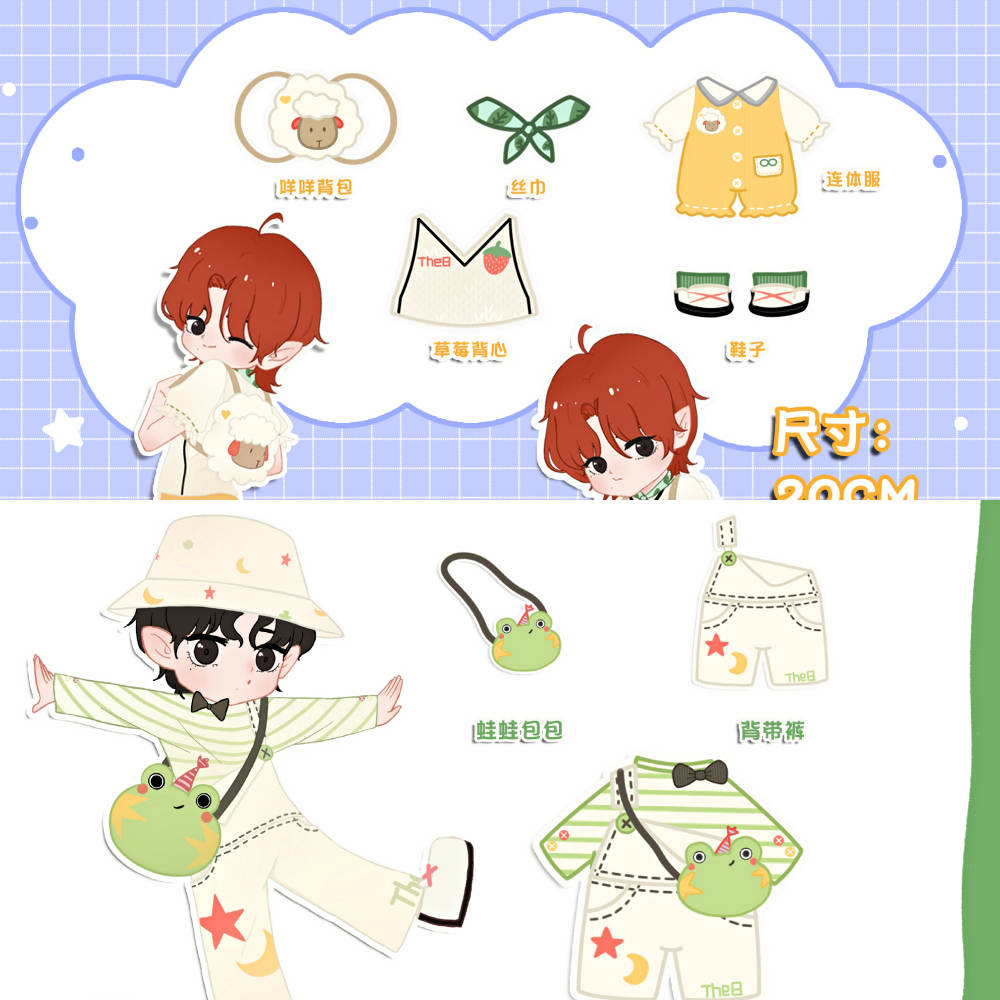
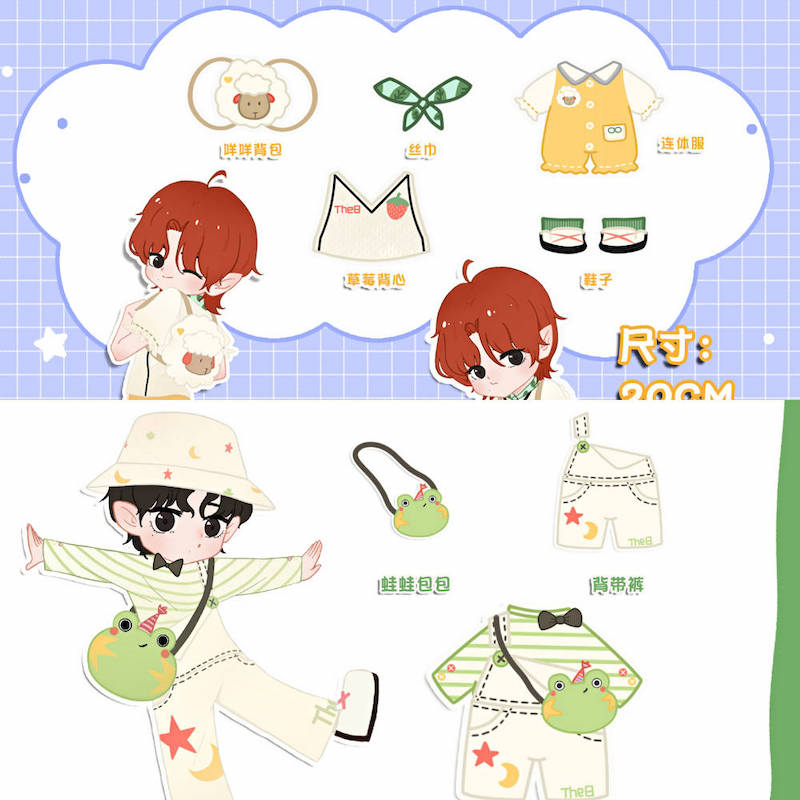
1

diff --git a/good7.html b/good7.html
@@ -3,7 +3,7 @@
 <head>
     <meta http-equiv="Content-Type" content="text/html; charset=utf-8" />
 	<meta name="viewport" content="width=device-width,initial-scale=1.0, minimum-scale=1.0, maximum-scale=1.0, user-scalable=no"/>
-	<title>“麻瓜报社”数码特典</title>
+	<title>“THE8 PLANET”丝巾</title>
 	<link rel="stylesheet" type="text/css" href="./css/main.css">
     <link rel="icon" type="image/x-ico" href="./img/logo.ico" />
 <style>
@@ -121,10 +121,10 @@
 <body>
     <div class="infos" style="font-family: jiangxizhuokai; text-align: center; ">
         <div style="background-color: #eee; height: 40px; line-height: 40px;"><a href="./index.html">点我返回首页🏠</a></div>
-        <div style="background-color: #FFF59D; height: 40px; line-height: 40px;">特典名称： “麻瓜报社”数码特典</div>
+        <div style="background-color: #FFF59D; height: 40px; line-height: 40px;">特典名称： “THE8 PLANET”丝巾</div>
         <div style="background-color: #C5E1A5;height: 40px; line-height: 40px;">@徐明浩吧_The8Bar</div>
-        <div style="background-color: #b5dbfa;height: 40px; line-height: 40px;">原文地址： <a href="https://weibo.com/6315500311/Kh8GyvHVh">点我去微博</a></div>
-        <div style="background-color: #ffd2e2;height: 40px; line-height: 40px;">owhat地址： <a href="https://www.owhat.cn/prod/shop/shopdetail?id=157230&encode=ab90aedc59745a2b&utm_source=owhat&utm_medium=weido">点我去owhat</a></div>
+        <div style="background-color: #b5dbfa;height: 40px; line-height: 40px;">原文地址： <a href="https://weibo.com/6315500311/Kibr2wAwK">点我去微博</a></div>
+        <div style="background-color: #ffd2e2;height: 40px; line-height: 40px;">owhat地址： <a href="https://www.owhat.cn/prod/shop/shopdetail?id=157984&encode=8e8a0b05f2487f7b&utm_source=owhat&utm_medium=weido">点我去owhat</a></div>
     </div>
     <img src="./img/sm_wz.png" alt="" style="width: 100%;">
 
@@ -135,86 +135,67 @@
       <div>收起</div>
     </div>
     <div class="detail">
-<p style="font-weight: bold;">【2021 SEVENTEEN回归徐明浩吧_The8Bar 1V1“麻瓜报社”数码特典】</p>
+<p style="font-weight: bold;">【2021徐明浩生日企划/SEVENTEEN回归徐明浩吧_The8Bar 1V1“THE8 PLANET”丝巾SET】</p>
 <p>⭕请认真阅读公告后参与活动⭕<br>
     ⭕若有任何疑问，请先私信浩吧⭕</p>
 <p>
-    🔮回归1V1“麻瓜报社”数码特典🔗：<a href="https://www.owhat.cn/prod/shop/shopdetail?id=157230&encode=ab90aedc59745a2b&utm_source=owhat&utm_medium=weido">点我去owhat</a>
+    🌼回归1V1 “THE8 PLANET”丝巾SET 🔗：<a href="https://www.owhat.cn/prod/shop/shopdetail?id=157984&encode=8e8a0b05f2487f7b&utm_source=owhat&utm_medium=weido">点我去owhat</a>
 </p>
 
 <p>
-    在月亮的照耀下🌙<br>
-暗色汹涌<br>
-绿银交杂的纹路<br>
-秩列有序的菱格和线条<br>
-为你的梦想上了一层保护色<br>
-请装好你小心翼翼的野心<br>
-满怀着真诚和强大的意志<br>
-渴望着荣耀和权力👑<br>
-与我携手迎接属于未来的胜利<br>
-挥动魔杖释放守护神咒的魔力<br>
-加之赠予院长调配的一小瓶福灵剂🧙♂<br>
-载着满满的快乐去世界旅行<br>
-然后把我对你爱洒满各地<br>
-再带着勇气来和你相遇💘
+    “对我来说，你就是我世界里的独一无二。”<br>
+在漫长的光年<br>
+在无垠的宇宙🪐<br>
+在时间之外<br>
+在世界之内<br>
+孤独灵魂的漂泊<br>
+于1107星球相遇💫<br>
+假如有一片种满了花的花园🌷<br>
+你愿意只为我一人绽放吗？
 </p>
-<p>
-    为了你<br>
-我马不停蹄<br>
-我竭尽全力<br>
-我披星戴月✨<br>
-我所向披靡🏹
 
-</p>
 <p>
-<text style="color: #2E7D32">
-    🔮 特典种类：<br>
+    <text style="color: rgb(243, 168, 29); font-weight: bold;">
+    ✨特典种类：<br>
 </text>
-1V1 电脑包<br>
-1V1 iPad保护壳<br>
-1V1 手机壳
+丝巾
 </p>
-<p>
-    <text style="color: #2E7D32; font-weight: bold;">
-        🔮 特典规格：<br>
-    </text> 
-<text style="color: #2E7D32">💠 电脑包<br></text>
-材质：软面PU<br>
-<text style="color: #2E7D32">💠 iPad保护壳<br></text>
-款式：书本式（耐脏抗摔，休眠唤醒，三档支架）<br>
-材质：PU十字纹<br>
-<text style="color: #2E7D32">💠 手机壳<br></text>
-材质：磨砂<br>
 
-
-
-</p>
 <p>
-    ⚠点击查看特典具体型号尺寸信息：<br>
-    <a href="./impotantImg/6_5.jpeg">电脑包</a><br>
-    <a href="./impotantImg/6_6.jpeg">iPad保护壳</a><br>
-    <a href="https://docs.qq.com/sheet/DVEd3dWZTTldjZVpZ?tab=BB08J2">手机壳</a>
+    <text style="color: rgb(243, 168, 29); font-weight: bold;">
+    ✨特典规格：<br>
+</text>
+尺寸：130*7cm <br>
+材质：珍珠缎仿真丝（勿机洗、勿暴晒、低温熨烫）
 </p>
-<p>
-    <text style="color: #2E7D32; font-weight: bold;">🔮 回归1V1特典价格：<br></text>
-💠 电脑包全款为35RMB<br>
-💠 iPad保护壳全款为25RMB<br>
-💠 手机壳全款为11RMB
 
-</p>
 <p>
-    🎊惊喜48h限时1V2活动🎊<br>
-浩吧特推出超值⭕1V2SET限时48h⭕满足大家一次性获得两款数码特典的需求～需要1V2的小仙女，直接在回归特典🔗中选择1V2选项就好～
+    <text style="color: rgb(243, 168, 29); font-weight: bold;">
+    ✨回归1V1特典价格：<br>
+</text>
+18RMB
 </p>
+
+<p>
+    🎉惊喜48h限时优惠活动🎉<br>
+为了让小仙女们享受到优惠的价格，前48小时可以享受到VIP价格15RMB；而在48小时之后关闭我们的VIP通道，价格持续保持为18RMB到活动结束
+</p>
+
+<p>
+    🎊转发抽奖🎊<br>
+转发本条微博并艾特两位好友，浩吧将随机抽取两位粉丝各送“THE8 PLANET”丝巾一条，大家多多转发吧～🥳
+</p>
+
 <p>
     👉注意⚠<br>
 🔹本次活动设置两个分类：2021徐明浩生日企划特典/2021 SEVENTEEN回归特典，可自行选择分类项目购买（生日企划特典扣除特典全款金额，剩余35RMB计入生日，本次活动不与“滚烫时光”生日企划金额叠加）<br>
-🔹生日企划“麻瓜报社”数码特典后期需补邮费才能拿到特典，回归1V1“麻瓜报社”数码特典后期需补专辑款和邮费才能拿到特典
+🔹生日企划“THE8 PLANET”丝巾SET后期需补邮费才能拿到特典，回归1V1“THE8 PLANET”丝巾SET后期需补专辑款和邮费才能拿到特典
 </p>
+
 <p>
     ‼注意事项 ‼<br>
 1.本次活动设置两个分类：2021徐明浩生日企划特典/2021 SEVENTEEN回归特典，可自行选择分类项目购买（生日企划特典扣除特典全款金额，剩余35RMB计入生日，本次活动不与“滚烫时光”生日企划金额叠加）<br>
-2.回归1V1“麻瓜报社”数码特典，一份特典对应一张专辑，分运回/不运回两种形式，运回/不运回后续均需补款补邮才进行邮寄，详情请注意留意浩吧官博和特典群的通知<br>
+2.回归1V1 “THE8 PLANET”丝巾SET，一份特典对应一张专辑，分运回/不运回两种形式，运回/不运回后续均需补款补邮才进行邮寄，详情请注意留意浩吧官博和特典群的通知<br>
 3.请认真阅读公告内容后再下单，定金支付成功，则不接受任何理由的退款<br>
 4.购买后请加回归特典🐧群：942146010，生日特典🐧群：703221992（进群请备注单号和微博ID）❗<br>
 5.仅限同一账号同一收货地址多单叠加<br>
@@ -223,21 +204,17 @@
 8.一切以实物为准，本活动最终解释权归@徐明浩吧_The8Bar 所有
 </p>
 <p>
-    策划by 馒头 潮汐<br>
-文案by 猪猪 馒头 乐乐 米粒儿
+策划by 潮汐 馒头<br>
+文案by 馒头 Emy 星儿
 </p>
-<p></p>
-<p></p>
 <p></p>
     </div>
   </section>
 
 <img src="./img/sm_tp.png" alt="" style="width: 100%;">
 <!-- <img src="./impotantImg/1_1.jpg" alt="" style="width: 100%;"> -->
-<img src="./impotantImg/6_2.jpeg" alt="" style="width: 100%;">
-<img src="./impotantImg/6_3.jpeg" alt="" style="width: 100%;">
-<img src="./impotantImg/6_4.jpeg" alt="" style="width: 100%;">
-<div class="zhanwei" style="background-color: #81C784"></div>
+<img src="./impotantImg/7_2.jpeg" alt="" style="width: 100%;">
+<div class="zhanwei" style="background-color: rgb(255, 209, 124)"></div>
 <div>
     <button onclick="topFunction()" id="myBtn" title="回顶部">返回顶部</button>
 </div>

diff --git a/index.html b/index.html
@@ -5,6 +5,7 @@
 	<title>小八超市</title>
 	<link rel="stylesheet" type="text/css" href="./css/main.css">
 	<link rel="icon" type="image/x-ico" href="./img/logo.ico" />
+	
 </head>
 
 <body>
@@ -18,6 +19,34 @@
 	
 	<div class="main-con">
 
+		<div class="agood" id="good7">
+			<div class="leftpart" style="background-image: url('./impotantImg/7_3.jpeg');"></div>
+			<div class="midpart" style="background-color: rgb(252, 206, 57); font-family: 'jiangxizhuokai';">
+				<div style="font-size: 15; margin-left: 20px; margin-top: 21px;"><text>“THE8 PLANET”丝巾</text></div>
+				<div style="font-size: 13; margin-top: 10; margin-left: 20px;"><text>徐明浩吧_The8Bar</text></div>
+			</div>
+			<div class="rightpart" style="background-color: rgb(252, 206, 57);  font-family: 'Segoe UI', Tahoma, Geneva, Verdana, sans-serif;">
+				<div class="r2" style="font-size: 20px; font-weight: bold; margin-left: 8px;">¥ 15</div>
+				<div class="r3" style=" margin-left: 7px; margin-top: 2px;">
+					<div style="font-size: 12px; transform: scale(0.9); color: rgb(180, 97, 2)">特典全款</div>
+				</div>
+				<div class="r3" id="zyj" style=" margin-top: 2px;">
+					<div style="margin-left: 7px; font-size: 12px; transform: scale(0.9); color: rgb(255, 0, 0);">48H 优惠中</div>
+					<div id="CountMsg" class="HotDate" style="margin-left: 1px; font-size: 12px; transform: scale(0.75); color: red"> 
+						<text id="t_h">00时</text><text id="t_m">00分</text><text id="t_s">00秒</text> 
+					</div> 
+				</div>
+				<script>
+					var EndTime= new Date('2021/06/03 18:00:00'); //截止时间 
+    				var NowTime = new Date(); 
+    				var t = EndTime.getTime() - NowTime.getTime(); 
+    				if(t<0) {
+						document.getElementById("zyj").style.display = "none";
+					}
+				</script>
+			</div>
+		</div>
+
 		<div class="agood" id="good6">
 			<div class="leftpart" style="background-image: url('./impotantImg/6_1.jpeg');"></div>
 			<div class="midpart" style="background-color: #81C784; font-family: 'jiangxizhuokai';">
@@ -25,21 +54,21 @@
 				<div style="font-size: 13; margin-top: 10; margin-left: 20px;"><text>徐明浩吧_The8Bar</text></div>
 			</div>
 			<div class="rightpart" style="background-color: #81C784;  font-family: 'Segoe UI', Tahoma, Geneva, Verdana, sans-serif;">
-				<div class="r2" style="font-size: 20px; font-weight: bold; margin-left: 8px;">¥ 11<text style="font-size: 13px;">起</text></div>
-				<!-- <div class="r3" style=" margin-left: 7px; margin-top: 2px;">
+				<div class="r2" style="font-size: 20px; font-weight: bold; margin-left: 8px;">¥ 11<text style="font-size: 12px;"> 起</text></div>
+				<div class="r3" style=" margin-left: 7px; margin-top: 2px;">
 					<div style="font-size: 12px; transform: scale(0.9); color: #093f0a">特典全款</div>
-				</div> -->
-				<div class="r3" style=" margin-top: 2px;">
+				</div>
+				<!-- <div class="r3" style=" margin-top: 2px;">
 					<div style="margin-left: 7px; font-size: 12px; transform: scale(0.9); color: rgb(255, 0, 0);">48H 1v2中</div>
 					<div id="CountMsg" class="HotDate" style="margin-left: 1px; font-size: 12px; transform: scale(0.75); color: #093f0a;"> 
 						<text id="t_h">00时</text><text id="t_m">00分</text><text id="t_s">00秒</text> 
 					</div> 
-				</div>
+				</div> -->
 			</div>
 		</div>
 
 		<div class="agood" id="good5">
-			<div class="leftpart" style="background-image: url('./impotantImg/5.jpg');"></div>
+			<div class="leftpart" style="background-image: url('./impotantImg/5.jpeg');"></div>
 			<div class="midpart" style="background-color: rgb(222, 248, 158); font-family: 'jiangxizhuokai';">
 				<div style="font-size: 18; margin-left: 20px; margin-top: 21px;"><text>微笑蛙蛙杯</text></div>
 				<div style="font-size: 13; margin-top: 10; margin-left: 20px;"><text>徐明浩吧_The8Bar</text></div>
@@ -54,7 +83,7 @@
 
 
 		<div class="agood" id="good4">
-			<div class="leftpart" style="background-image: url('./impotantImg/4_1.jpg');"></div>
+			<div class="leftpart" style="background-image: url('./impotantImg/4_intro.jpg');"></div>
 			<div class="midpart" style="background-color: rgb(209, 205, 248); font-family: 'jiangxizhuokai';">
 				<div style="font-size: 18; margin-left: 20px; margin-top: 21px;"><text>床上四件套</text></div>
 				<div style="font-size: 13; margin-top: 10; margin-left: 20px;"><text>徐明浩吧_The8Bar</text></div>
@@ -126,7 +155,7 @@
 				<div style="font-size: 13; font-family: 'jiangxizhuokai'; margin-top: 10; margin-left: 20px;"><text>徐明浩吧_The8Bar</text></div>
 			</div>
 			<div class="rightpart" style="background-color: rgb(123, 178, 249); font-family: 'Segoe UI', Tahoma, Geneva, Verdana, sans-serif;">
-				<div class="r2" style="font-size: 20px; font-weight: bold; margin-left: 8px;">¥ 1<text style="font-size: 13px;">起</text></div>
+				<div class="r2" style="font-size: 20px; font-weight: bold; margin-left: 8px;">¥ 1<text style="font-size: 12px;"> 起</text></div>
 			</div>
 		</div>
 	</div>

diff --git a/good4.html b/good4.html
@@ -143,7 +143,7 @@
     ☁“浩浩”睡觉床上四件套SET定金🔗：<a href="https://www.owhat.cn/prod/shop/shopdetail?id=155900&encode=336a20574dd68ce6&utm_source=owhat&utm_medium=weido">点我去owhat</a>
 </p>
 <p>
-    夜晚🌃。
+    夜晚🌃。<br>
 “嘀嗒，嘀嗒”，下雨了。🌧<br>
 小浩坐在床边晃了晃自己的小脚丫，手里捧着妈妈给准备的小奶瓶🍼，一边咕嘟咕嘟地喝着，一边听着雨点打在窗台上的声音。💦<br>
 小浩喝完奶，转身爬上了床，看着妈妈给自己喜欢的床单，被套，枕套，开心地在床上滚了一圈。🧒🏻把自己的小脑袋深深埋在床单里，“哇哦，是太阳的味道耶！☀”<br>

diff --git a/js/main.js b/js/main.js
@@ -22,12 +22,20 @@ document.getElementById("good6").onclick=function(){
     window.location.href="good6.html"
 }
 
+document.getElementById("good7").onclick=function(){
+    window.location.href="good7.html"
+}
+
 document.getElementById("goodbyh1").onclick=function(){
     window.location.href="goodbyh1.html"
 }
 
+// function zyj(){
+    
+// }
+
 function getRTime(){ 
-    var EndTime= new Date('2021/05/27 21:10:00'); //截止时间 
+    var EndTime= new Date('2021/06/03 18:00:00'); //截止时间 
     var NowTime = new Date(); 
     var t =EndTime.getTime() - NowTime.getTime(); 
     
